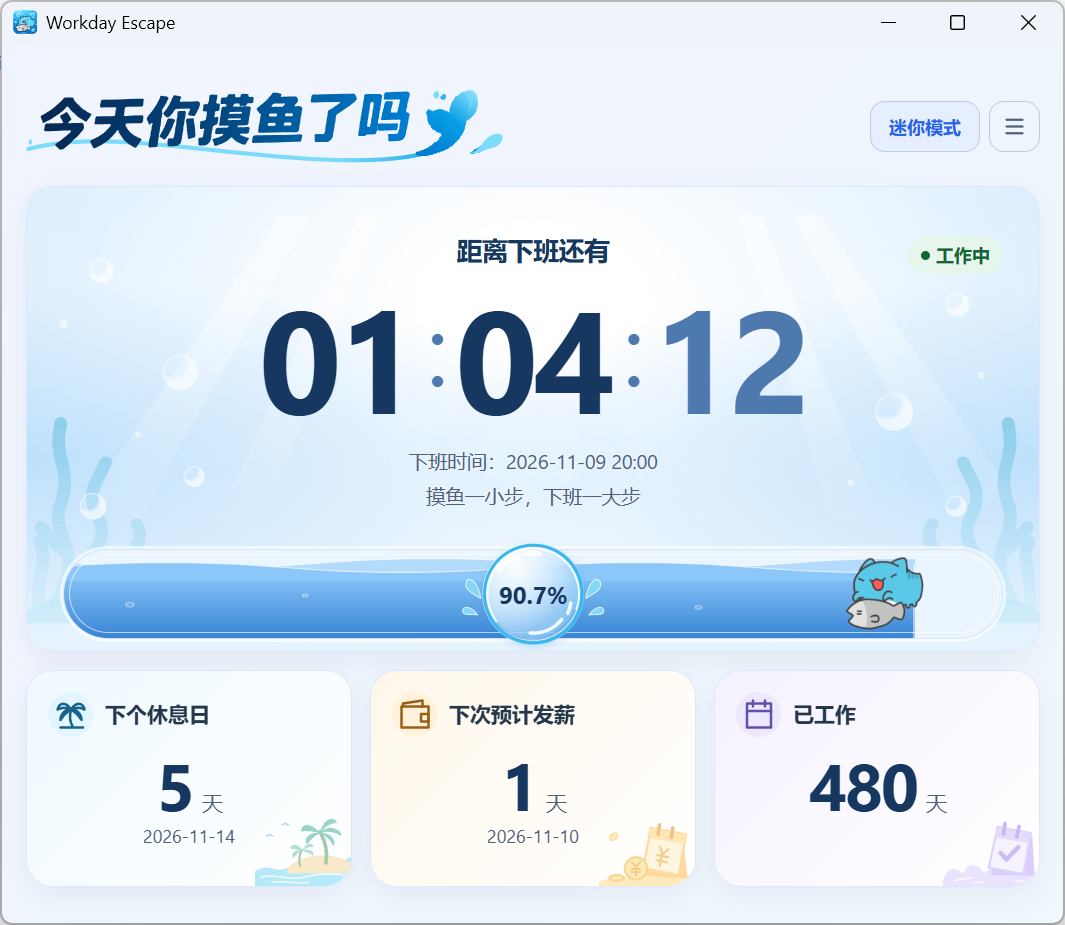
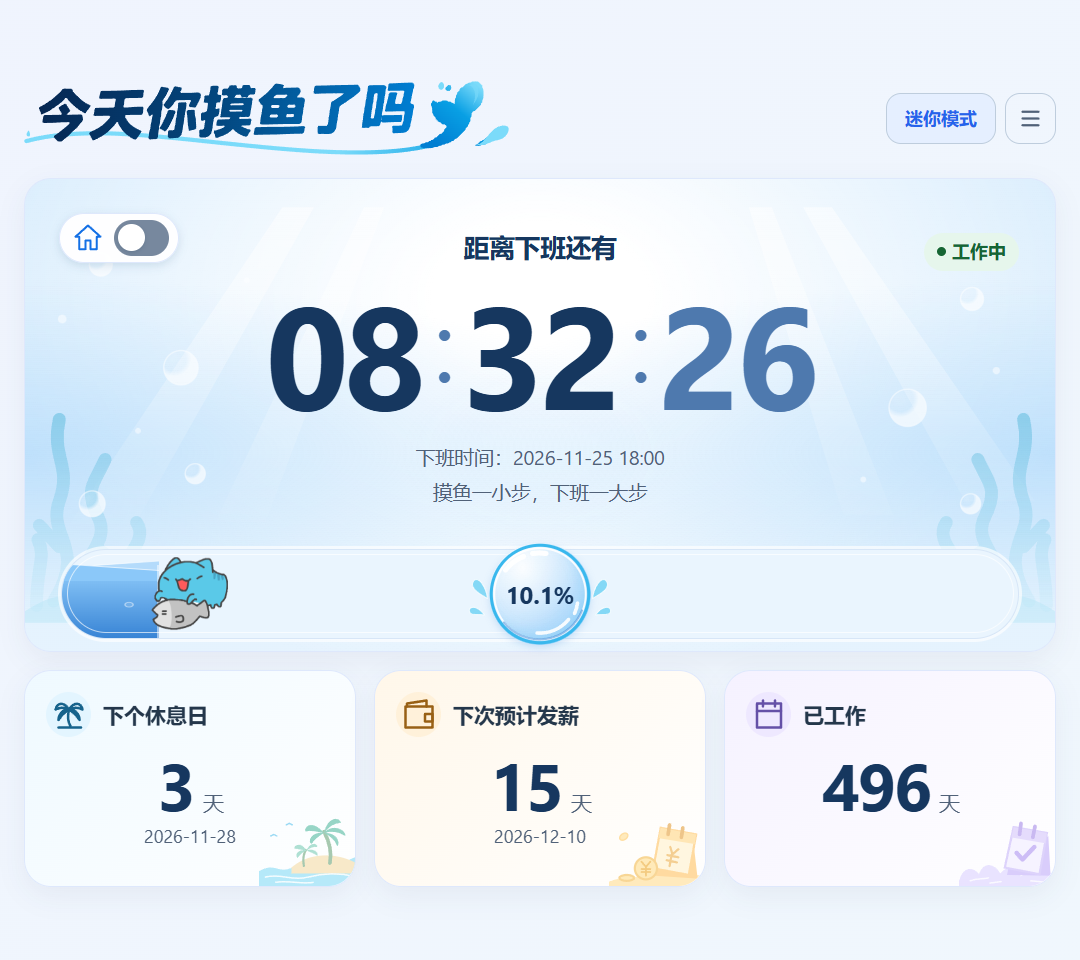
docs: refresh v2.1.3 README and screenshots（更新V2.1.3项目首页及软件截图）

diff --git a/README.md b/README.md
@@ -4,25 +4,29 @@
 
 Workday Escape 是一个轻量、有趣的 Windows 桌面下班倒计时工具。打开就能看到距离下班还有多久，也能顺便看看下个休息日、下次预计发薪日和已工作天数。单文件 EXE，双击即用。
 
-![Workday Escape 工作中主界面，显示下班倒计时和工作进度](docs/assets/screenshots/01-dashboard.png)
+![Workday Escape v2.1.3 工作中主界面，显示下班倒计时、加班快捷开关和工作进度](docs/assets/screenshots/01-dashboard.png)
 
-界面示例截图来自 v2.1.2。
+以下均为 v2.1.3 实机截图，使用独立示例配置。
 
 ## 核心功能
 
 - 实时下班倒计时和可视化工作进度，区分工作中、休息日和下班后。
 - 查看距离下个休息日还有多久、下次预计发薪日，以及从入职起算的已工作自然日。
-- 在主界面快速设置、修改或取消当前班次的加班，日常上下班时间继续按原设置计算。
+- 在主界面快速设置、修改或取消加班，支持跨日结束时间，班次冲突会明确提示。
 - 切换到 Mini 迷你窗口查看倒计时，或从系统托盘恢复和退出应用。
 - 在设置中调整上下班时间、入职日期、发薪日，并按需启用迷你窗。
 
 ## 更多界面
 
-设置页面和已下班状态。
+精简后的设置页面、已下班状态，以及加班设置和取消弹窗。
 
 <p>
-  <img src="docs/assets/screenshots/02-settings.png" alt="设置页面，包含上下班时间、临时下班时间、入职日期和发薪日" width="340">
-  <img src="docs/assets/screenshots/03-offwork.png" alt="已下班状态，显示当天工作已结束" width="340">
+  <img src="docs/assets/screenshots/02-settings.png" alt="v2.1.3 精简设置页，包含上下班时间、入职日期、发薪日和迷你窗开关" width="340">
+  <img src="docs/assets/screenshots/03-offwork.png" alt="v2.1.3 已下班状态，显示当天工作已结束" width="340">
+</p>
+<p>
+  <img src="docs/assets/screenshots/04-overtime-settings.png" alt="v2.1.3 加班设置弹窗，可选择加班结束时间" width="340">
+  <img src="docs/assets/screenshots/05-overtime-cancel.png" alt="v2.1.3 加班取消弹窗，显示黄色月亮、加班时间卡片及到点就跑按钮" width="340">
 </p>
 
 ## 下载与使用
